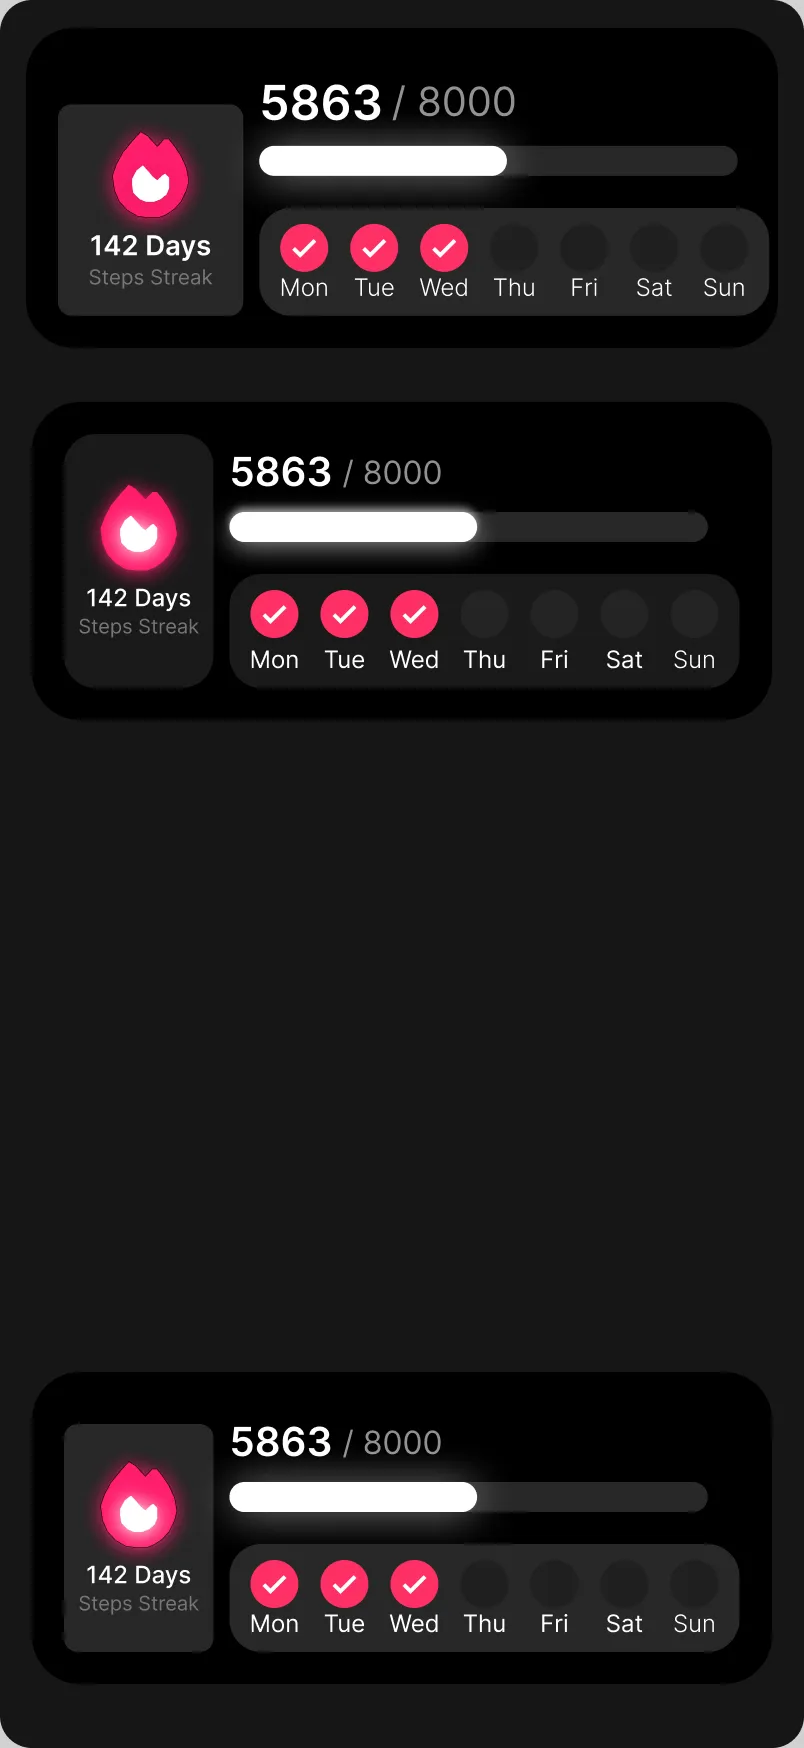
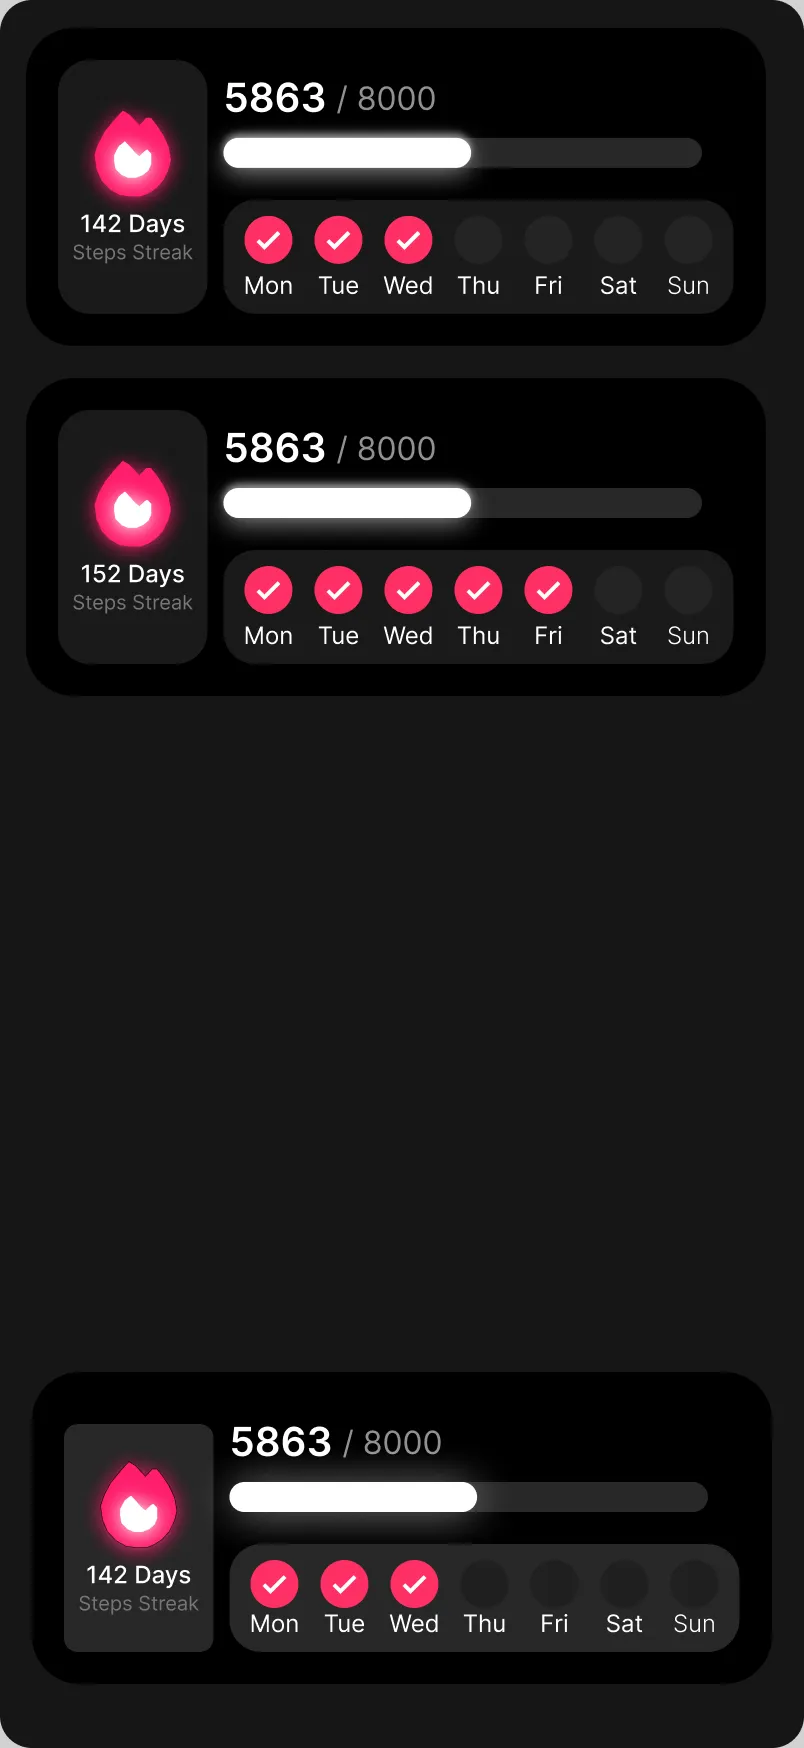
Status pill copy + green dot, full-width doodle cards, case back-to-top button, steps re-export
- Hero status now reads 'Available for Product Design roles' with a green
  live dot (pulse ring recolored to match)
- Outside-work cards stretch to fill the section width; third card now
  aligns with the content cards above instead of finishing early
- Floating back-to-top button on case study pages (injected via JS on
  main.case pages), appears past 600px scroll, respects reduced-motion
- Re-export steps-streak screen from updated Figma (152-day card)

Changed region(s): [[0.0622, 0.2162, 0.9328, 0.4016], [0.0622, 0.0309, 0.9639, 0.1854]]

diff --git a/css/style.css b/css/style.css
@@ -282,14 +282,14 @@ button:focus-visible {
 }
 .pulse-dot {
   width: 9px; height: 9px; border-radius: 50%;
-  background: var(--ink);
-  box-shadow: 0 0 0 0 rgba(0, 0, 0, 0.4);
+  background: #16a34a;
+  box-shadow: 0 0 0 0 rgba(22, 163, 74, 0.5);
   animation: pulse 2s infinite;
 }
 @keyframes pulse {
-  0% { box-shadow: 0 0 0 0 rgba(0, 0, 0, 0.35); }
-  70% { box-shadow: 0 0 0 9px rgba(0, 0, 0, 0); }
-  100% { box-shadow: 0 0 0 0 rgba(0, 0, 0, 0); }
+  0% { box-shadow: 0 0 0 0 rgba(22, 163, 74, 0.45); }
+  70% { box-shadow: 0 0 0 9px rgba(22, 163, 74, 0); }
+  100% { box-shadow: 0 0 0 0 rgba(22, 163, 74, 0); }
 }
 @media (prefers-reduced-motion: reduce) { .pulse-dot { animation: none; } }
 
@@ -563,8 +563,7 @@ a.ai-card:hover .ai-card__link { transform: translateX(6px); }
   gap: clamp(14px, 2.5vw, 24px);
 }
 .doodle {
-  flex: 1 1 150px;
-  max-width: 300px;
+  flex: 1 1 220px;
   margin: 0;
   padding: 22px 16px 16px;
   border: 1px solid var(--line);
@@ -734,6 +733,30 @@ a.ai-card:hover .ai-card__link { transform: translateX(6px); }
   margin: 0 auto;
   padding: clamp(72px, 12vh, 130px) var(--pad-x) clamp(40px, 6vh, 80px);
 }
+/* Back-to-top button (case study pages) */
+.to-top {
+  position: fixed;
+  right: clamp(16px, 3vw, 32px);
+  bottom: clamp(16px, 3vw, 32px);
+  z-index: 80;
+  width: 48px; height: 48px;
+  border-radius: 50%;
+  border: 1px solid var(--ink);
+  background: var(--ink);
+  color: var(--paper);
+  font-size: 1.25rem; line-height: 1;
+  cursor: pointer;
+  display: grid; place-items: center;
+  opacity: 0; transform: translateY(12px) scale(0.9);
+  pointer-events: none;
+  transition: opacity 0.28s var(--ease-out), transform 0.28s var(--ease-out), background 0.2s;
+}
+.to-top.is-visible { opacity: 1; transform: none; pointer-events: auto; }
+.to-top:hover { background: var(--paper); color: var(--ink); }
+@media (prefers-reduced-motion: reduce) {
+  .to-top { transition: opacity 0.15s linear; transform: none; }
+}
+
 .viz .section-head { margin-bottom: clamp(18px, 3vh, 30px); }
 
 /* The strip lives on a Figma-style canvas: dot grid, selection handles, a named cursor */

diff --git a/js/main.js b/js/main.js
@@ -418,3 +418,26 @@ if (timeEl) {
     });
   });
 })();
+
+/* Back-to-top button on case study pages. Injected here so every case
+   page gets it without editing each file. Appears after scrolling down. */
+(function () {
+  const caseMain = document.querySelector("main.case");
+  if (!caseMain) return;
+
+  const btn = document.createElement("button");
+  btn.type = "button";
+  btn.className = "to-top";
+  btn.setAttribute("aria-label", "Back to top");
+  btn.innerHTML = '<span aria-hidden="true">↑</span>';
+  document.body.appendChild(btn);
+
+  const smooth = !window.matchMedia("(prefers-reduced-motion: reduce)").matches;
+  btn.addEventListener("click", () => {
+    window.scrollTo({ top: 0, behavior: smooth ? "smooth" : "auto" });
+  });
+
+  const onScroll = () => btn.classList.toggle("is-visible", window.scrollY > 600);
+  window.addEventListener("scroll", onScroll, { passive: true });
+  onScroll();
+})();

diff --git a/index.html b/index.html
@@ -55,7 +55,7 @@
               I handle the full process: research, flows, visual design and handoff.
             </p>
             <div class="hero__side">
-              <p class="hero__status"><span class="pulse-dot" aria-hidden="true"></span> Open to new roles</p>
+              <p class="hero__status"><span class="pulse-dot" aria-hidden="true"></span> Available for Product Design roles</p>
               <div class="hero__social">
                 <a href="mailto:[email redacted]">Email</a>
                 <a href="https://www.linkedin.com/in/albin-sigi/" target="_blank" rel="noopener">LinkedIn</a>